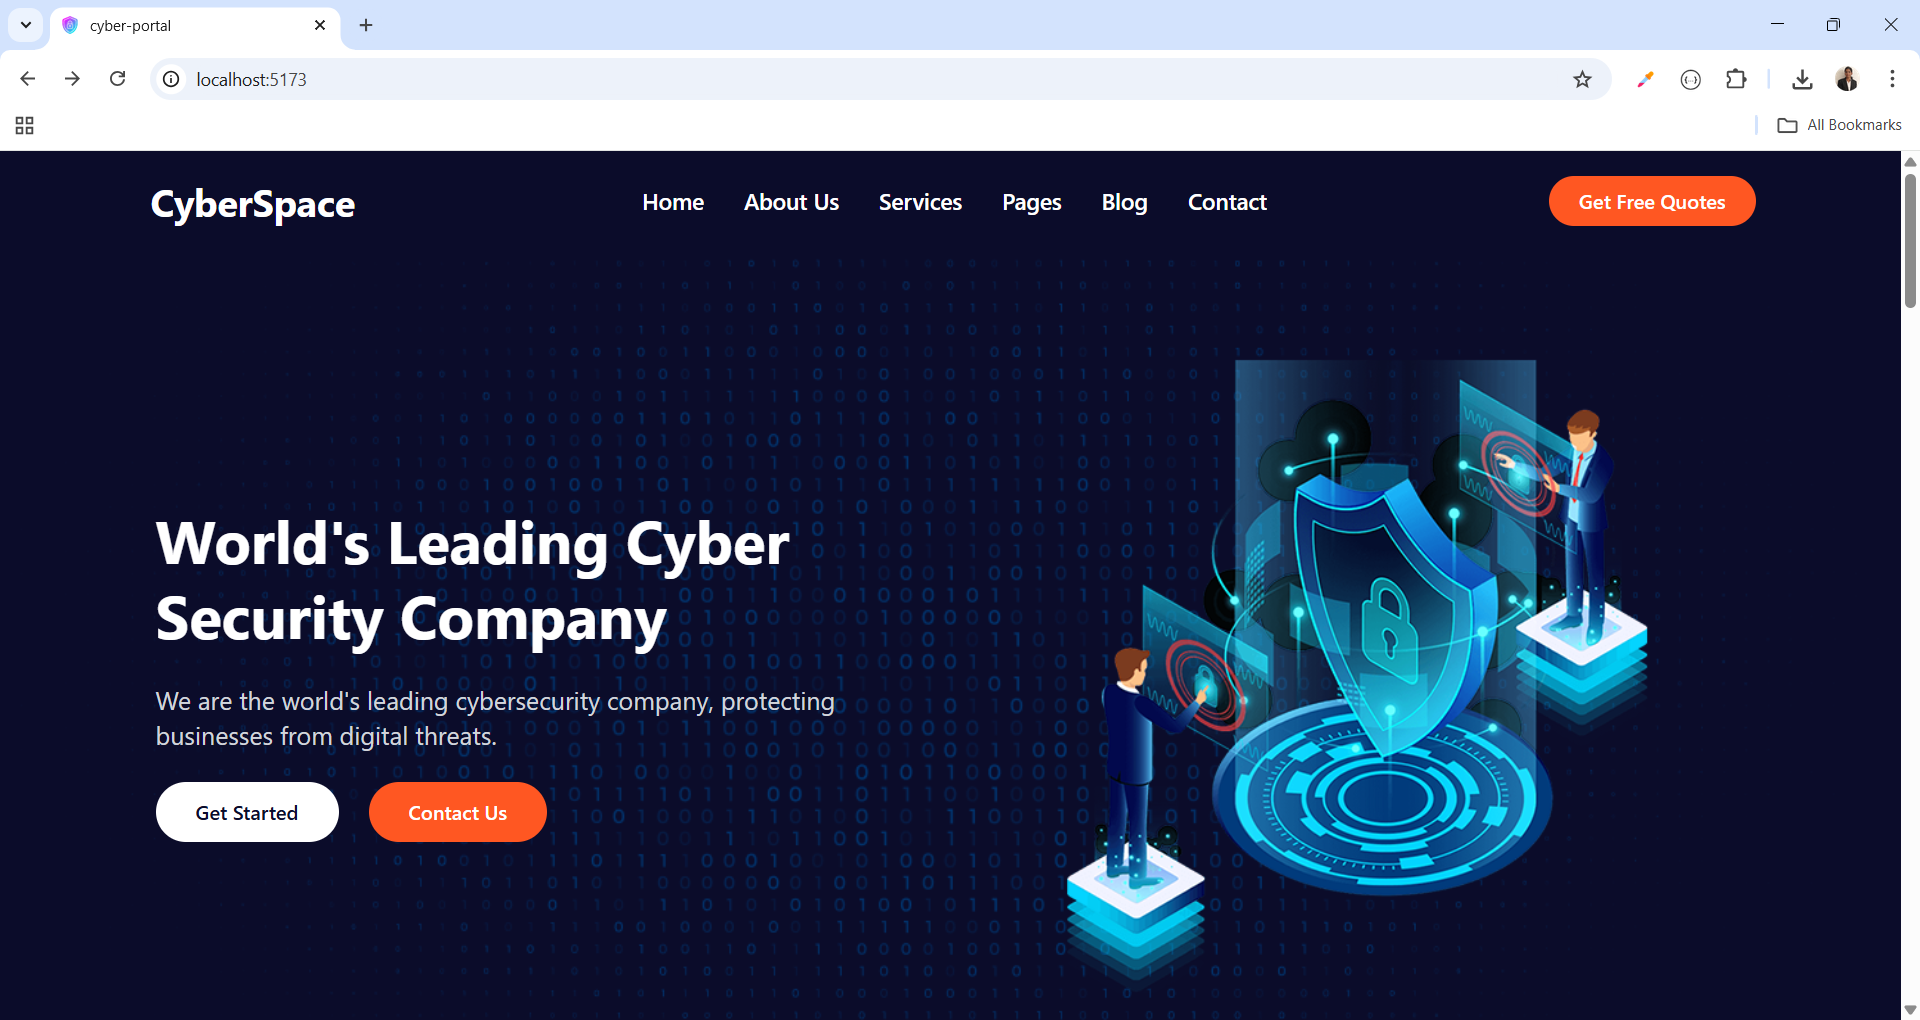
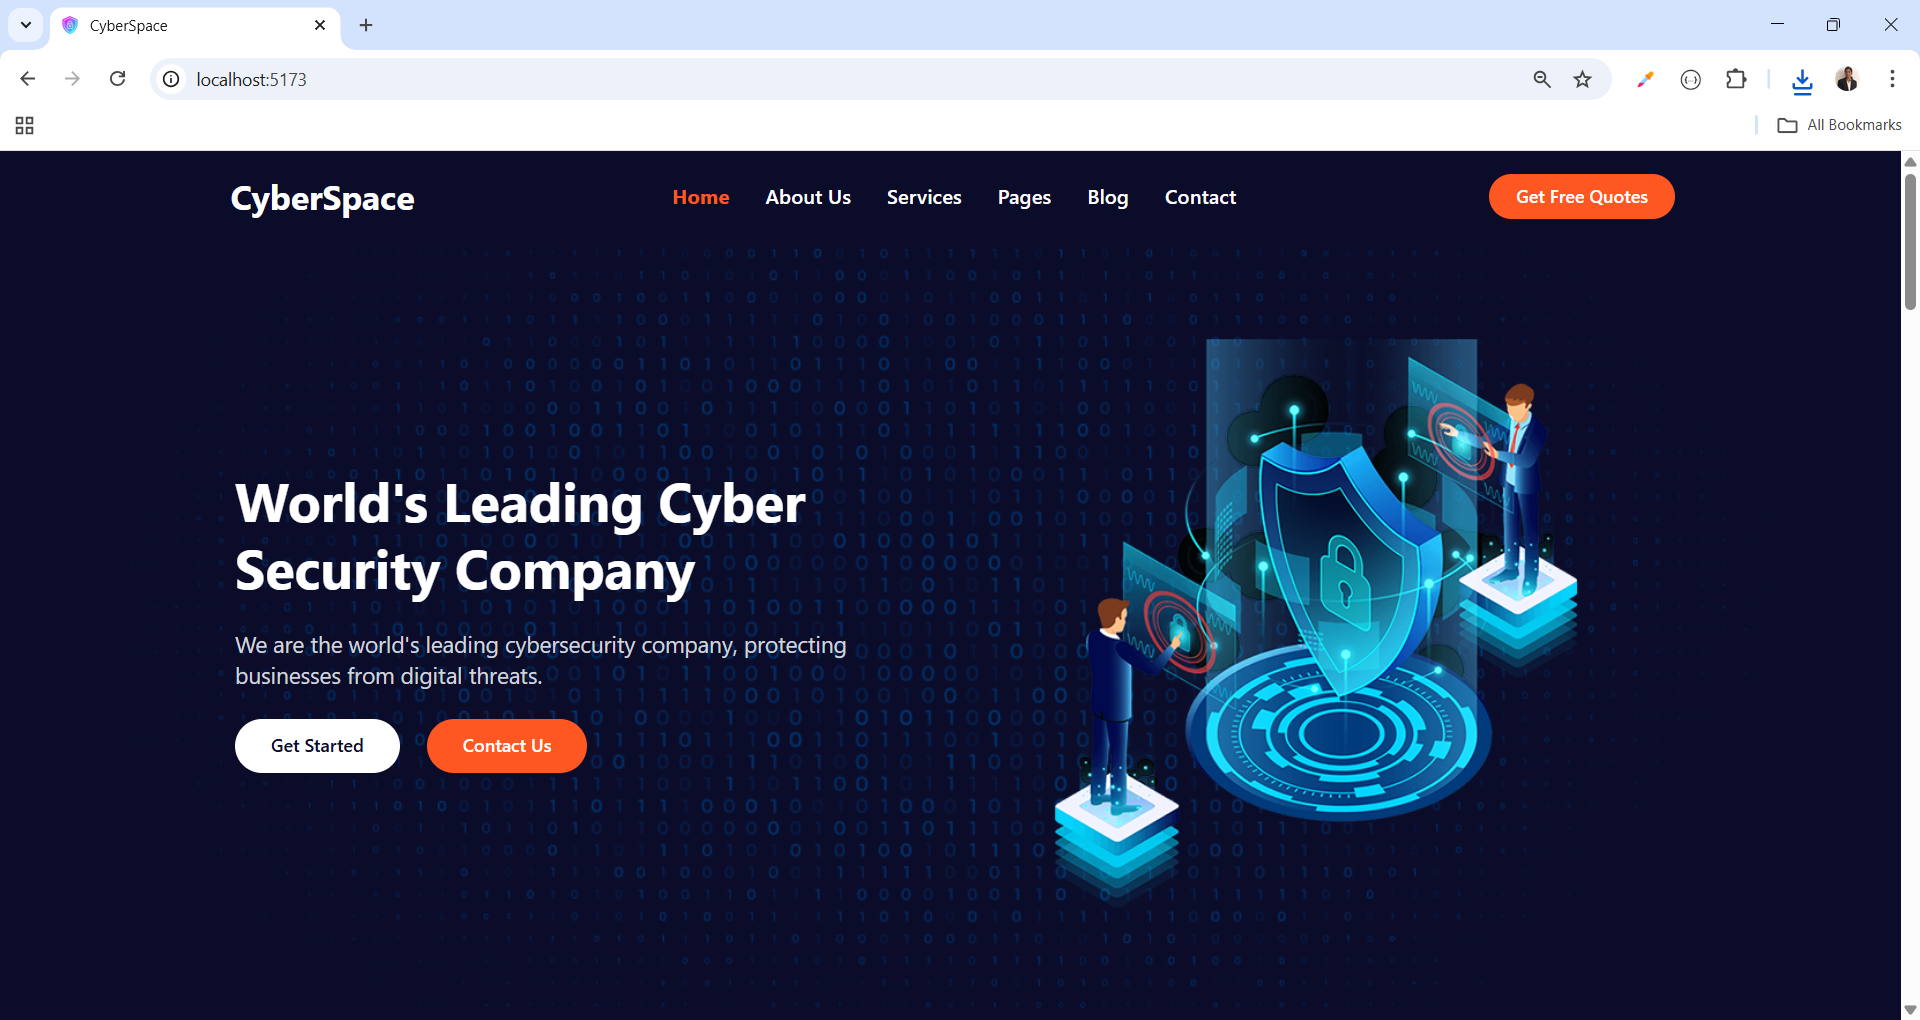
proejct-5

diff --git a/cyber-portal/src/Componets/Navbar/Navbar.tsx b/cyber-portal/src/Componets/Navbar/Navbar.tsx
@@ -1,4 +1,4 @@
-import { NavLink, Link } from "react-router"
+import { NavLink } from "react-router"
 
 function Navbar() {
   return (
@@ -10,24 +10,67 @@ function Navbar() {
         {/* Nav Links */}
         <ul className="hidden md:flex gap-8 text-lg font-medium">
           <li>
-            <Link to="/" className="hover:text-[#ff5722] transition">Home</Link>
+            <NavLink
+              to="/"
+              className={({ isActive }) =>
+                isActive ? "text-[#ff5722] font-bold transition" : "hover:text-[#ff5722] transition"
+              }
+            >
+              Home
+            </NavLink>
           </li>
           <li>
-            <NavLink to="/about" className="hover:text-[#ff5722] transition">About Us</NavLink>
+            <NavLink
+              to="/about"
+              className={({ isActive }) =>
+                isActive ? "text-[#ff5722] font-bold transition" : "hover:text-[#ff5722] transition"
+              }
+            >
+              About Us
+            </NavLink>
           </li>
           <li>
-            <NavLink to="/services" className="hover:text-[#ff5722] transition">Services</NavLink>
+            <NavLink
+              to="/services"
+              className={({ isActive }) =>
+                isActive ? "text-[#ff5722] font-bold transition" : "hover:text-[#ff5722] transition"
+              }
+            >
+              Services
+            </NavLink>
           </li>
           <li>
-            <NavLink to="/pages" className="hover:text-[#ff5722] transition">Pages</NavLink>
+            <NavLink
+              to="/pages"
+              className={({ isActive }) =>
+                isActive ? "text-[#ff5722] font-bold transition" : "hover:text-[#ff5722] transition"
+              }
+            >
+              Pages
+            </NavLink>
           </li>
           <li>
-            <NavLink to="/blog" className="hover:text-[#ff5722] transition">Blog</NavLink>
+            <NavLink
+              to="/blog"
+              className={({ isActive }) =>
+                isActive ? "text-[#ff5722] font-bold transition" : "hover:text-[#ff5722] transition"
+              }
+            >
+              Blog
+            </NavLink>
           </li>
           <li>
-            <NavLink to="/contact" className="hover:text-[#ff5722] transition">Contact</NavLink>
+            <NavLink
+              to="/contact"
+              className={({ isActive }) =>
+                isActive ? "text-[#ff5722] font-bold transition" : "hover:text-[#ff5722] transition"
+              }
+            >
+              Contact
+            </NavLink>
           </li>
         </ul>
+
 
         {/* Button */}
         <NavLink to="/">
